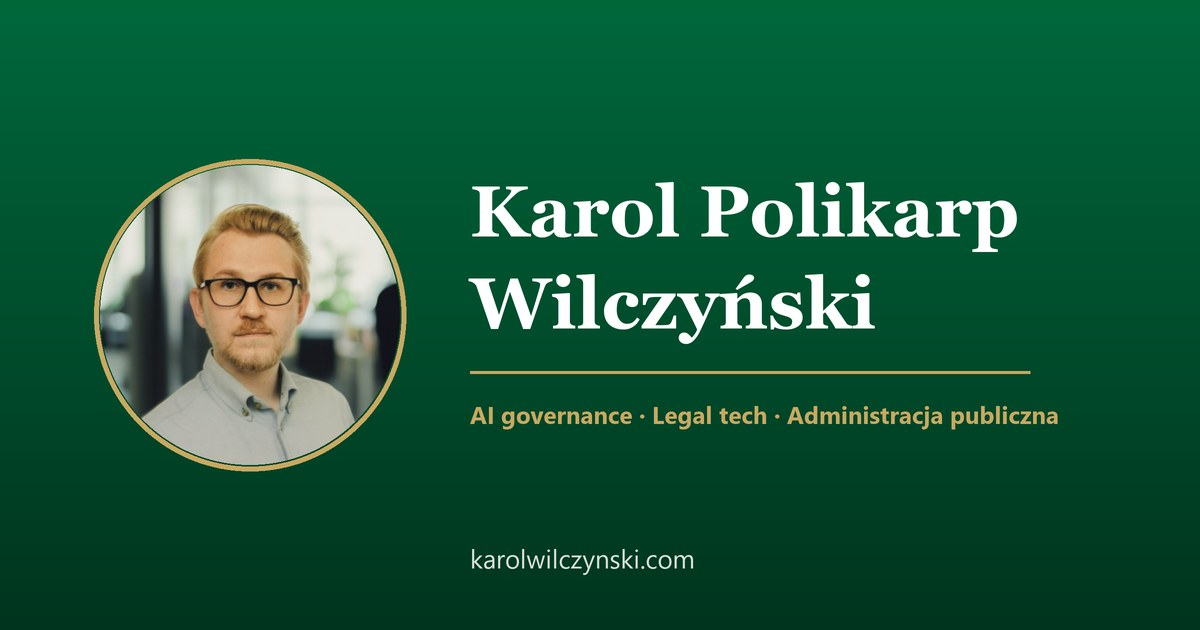
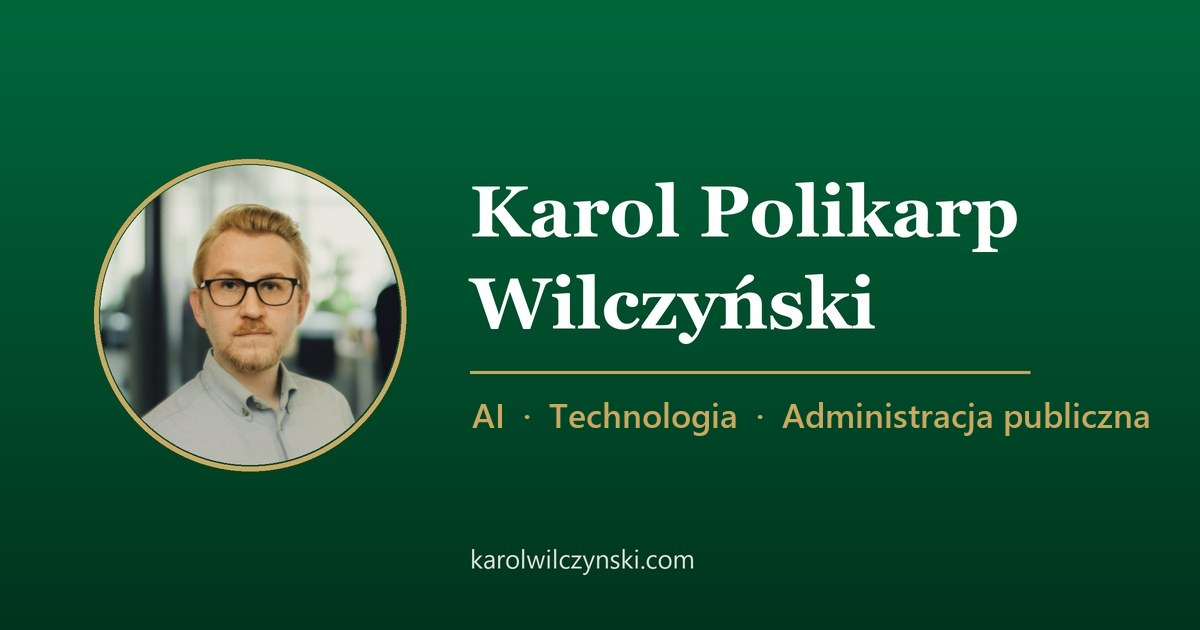
OG card: replace gold tagline with "AI · Technologia · Administracja publiczna"
Repaint the social-preview card's gold line (was "AI governance · Legal tech ·
Administracja publiczna") and bump the og:image/twitter:image cache-bust so
platforms re-fetch. Name, photo and divider untouched.

Changed region(s): [[0.37, 0.6333, 0.9558, 0.6937]]

diff --git a/index.html b/index.html
@@ -19,7 +19,7 @@
     <meta property="og:url" content="https://karolwilczynski.com/">
     <meta property="og:title" content="Karol Polikarp Wilczyński | AI, Prawo, Technologia">
     <meta property="og:description" content="Na styku AI, prawa i administracji publicznej w Polsce. Buduję narzędzia do pracy z polskim prawem (JakiePrawo.pl) oraz automatyzacje oparte o LLM.">
-    <meta property="og:image" content="https://karolwilczynski.com/assets/images/og-card.jpg">
+    <meta property="og:image" content="https://karolwilczynski.com/assets/images/og-card.jpg?v=2">
     <meta property="og:image:width" content="1200">
     <meta property="og:image:height" content="630">
     <meta property="og:image:alt" content="Karol Polikarp Wilczyński: AI, technologia, administracja publiczna">
@@ -30,7 +30,7 @@
     <meta name="twitter:url" content="https://karolwilczynski.com/">
     <meta name="twitter:title" content="Karol Polikarp Wilczyński | AI, Prawo, Technologia">
     <meta name="twitter:description" content="Na styku AI, prawa i administracji publicznej w Polsce. Buduję narzędzia do pracy z polskim prawem (JakiePrawo.pl) oraz automatyzacje oparte o LLM.">
-    <meta name="twitter:image" content="https://karolwilczynski.com/assets/images/og-card.jpg">
+    <meta name="twitter:image" content="https://karolwilczynski.com/assets/images/og-card.jpg?v=2">
     <meta name="twitter:image:alt" content="Karol Polikarp Wilczyński: AI, technologia, administracja publiczna">
 
     <!-- Favicon -->
